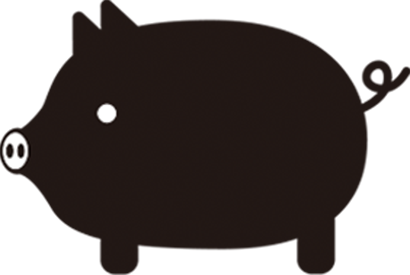
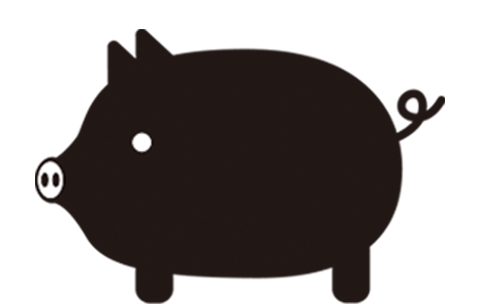
fixed from style

Changed region(s): [[0.0, 0.0, 1.0, 1.0], [0.2341, 0.3782, 0.322, 0.5236]]

diff --git a/app/assets/stylesheets/pages/_feelingsnew.scss b/app/assets/stylesheets/pages/_feelingsnew.scss
@@ -1,7 +1,7 @@
 .controller-name-feelings {
   .top-container {
-    height: 300px;
-    margin-bottom: 180px;
+    height: 380px;
+    margin-bottom: 80px;
     min-height: 200px;
     padding-top: 20px;
     h1 {
@@ -29,17 +29,19 @@
 
 @media (max-width: 600px) {
   .controller-name-feelings {
+    .form-container {
+      padding-top: 10px;
+    }
     .top-container {
-    height: 200px;
-    margin-bottom: 100px;
+    height: 300px;
       .logo-container {
-      width: 56%;
-      margin: 0 22%;
-      padding-bottom: 5%;
+        width: 56%;
+        margin: 0 22%;
+        padding-bottom: 5%;
       }
     .animal-container {
-      width: 58%;
-      margin: 0 21%;
+        width: 70%;
+        margin: 0 15%;
       img {
       width: 100%;
       }

diff --git a/app/assets/stylesheets/pages/_index.scss b/app/assets/stylesheets/pages/_index.scss
@@ -20,6 +20,8 @@
   font-family: "Arial Rounded MT Bold";
   font-size: 22px;
   color: $gray;
+  line-height: 1.5;
+  margin-top: 0;
   .font-red {
     color: $red;
   }

diff --git a/app/assets/stylesheets/components/_new_form.scss b/app/assets/stylesheets/components/_new_form.scss
@@ -37,4 +37,7 @@
   .form-container {
     width: 100%;
   }
+  .display-block {
+    display: block;
+  }
 }
